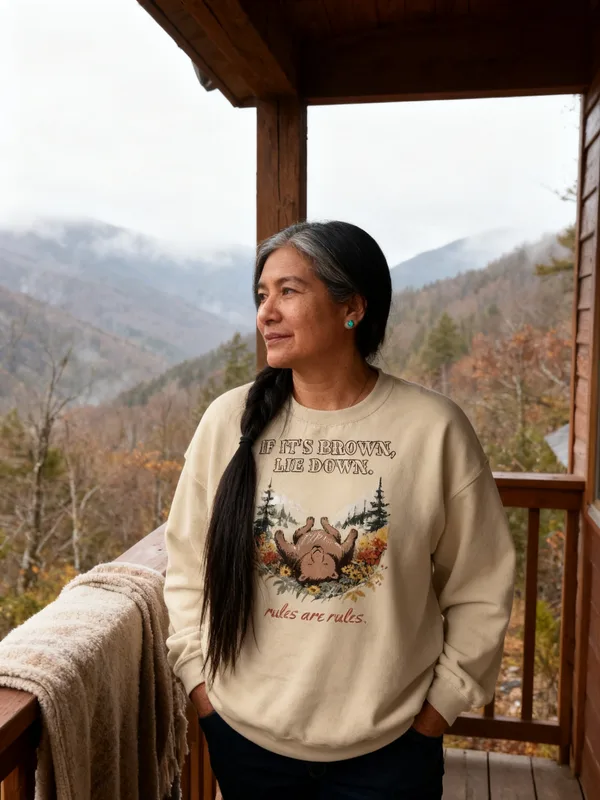
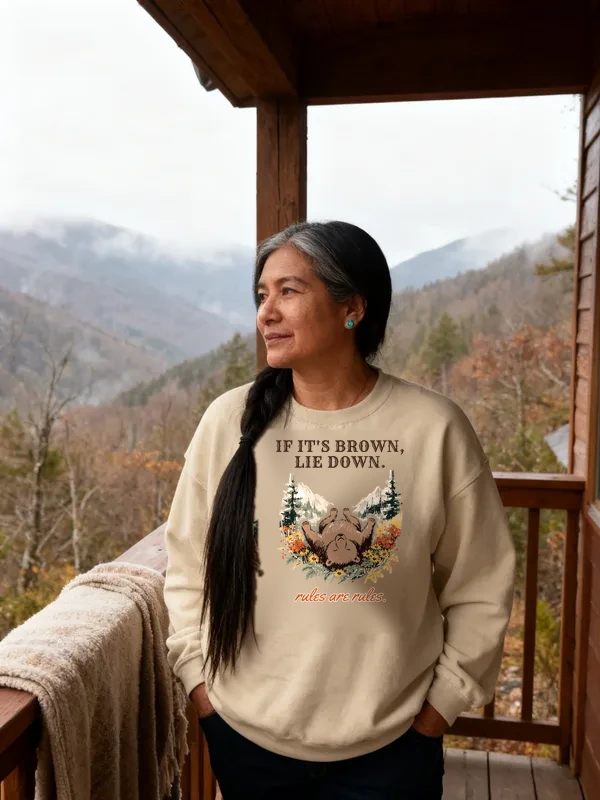
[E] wip REDO 559 sand dark-headline file, mockup, cover recomposite (re-link running)
Claude-Session: https://claude.ai/code/session_01Lr4WsmixfBZLNYCJnS7Job

Changed region(s): [[0.42, 0.5312, 0.69, 0.8125]]

diff --git a/scripts/cover-composite2.py b/scripts/cover-composite2.py
@@ -1,0 +1,42 @@
+#!/usr/bin/env python3
+"""cover-composite2.py cover.webp print.png out.webp x0 y0 w --old x0,y0,x1,y1 [--hair-seed x,y] [--force x0,y0,x1,y1] [--hair-dark 48] [--diff 22]
+Clean erase + composite (R6.9, 2026-10-18 rules): the old print inside --old is repainted from the surrounding fabric (normalised blur of garment pixels outside the old print,
+no flat fill), hair (dark pixels connected to --hair-seed) is left exactly as photographed and never painted over, then the new print goes on at x0,y0,w with the photo's luminance multiplied in.
+Place the print so it starts to the right of / below the hair, so nothing covers a letter."""
+import sys, numpy as np, cv2
+from PIL import Image
+a = sys.argv[1:]; cov, prt, out = a[:3]; x0, y0, w = (int(v) for v in a[3:6])
+def opt(n, d=None): return a[a.index(n) + 1] if n in a else d
+ox0, oy0, ox1, oy1 = (int(v) for v in opt('--old').split(','))
+c = np.array(Image.open(cov).convert('RGB')).astype(np.float32); H, W = c.shape[:2]
+lum = c.mean(2); sat = c.max(2) - c.min(2)
+hair = np.zeros((H, W), np.uint8)
+if opt('--hair-seed'):
+    sx, sy = (int(v) for v in opt('--hair-seed').split(',')); dk = (lum < float(opt('--hair-dark', 48))).astype(np.uint8)
+    n, lab = cv2.connectedComponents(dk); hair = (lab == lab[sy, sx]).astype(np.uint8) if lab[sy, sx] else hair
+    hair = cv2.dilate(hair, np.ones((3, 3), np.uint8))
+yy, xx = np.mgrid[0:H, 0:W]
+if opt('--force'):  # x0,y0,x1,y1 of leftover old-print pixels that touch the hair: treated as print, not hair
+    fx0, fy0, fx1, fy1 = (int(v) for v in opt('--force').split(',')); hair[fy0:fy1 + 1, fx0:fx1 + 1] = 0
+box = ((xx >= ox0) & (xx <= ox1) & (yy >= oy0) & (yy <= oy1))
+# fabric estimate: inpaint the old print box AND the hair out of a 1/4-scale copy (so the hair cannot smear into the fill), upsample, add grain
+sc = 4; small = cv2.resize(c.astype(np.uint8), (W // sc, H // sc), interpolation=cv2.INTER_AREA)
+big = np.zeros((H, W), np.uint8); big[(box | (hair > 0))] = 1
+big = cv2.dilate(big, np.ones((9, 9), np.uint8)); ms = cv2.resize(big, (W // sc, H // sc), interpolation=cv2.INTER_NEAREST)
+fs = cv2.inpaint(small, ms, 6, cv2.INPAINT_TELEA)
+est = cv2.GaussianBlur(cv2.resize(fs, (W, H), interpolation=cv2.INTER_CUBIC).astype(np.float32), (0, 0), 3)
+est = est + np.random.default_rng(7).normal(0, 1.1, est.shape)
+ring = (xx >= ox0 - 55) & (xx <= ox1 + 55) & (yy >= oy0 - 30) & (yy <= oy1 + 45) & ~box & (hair == 0)
+old = (box & (np.abs(c - est).max(2) > float(opt('--diff', 22))) & (hair == 0)).astype(np.uint8)
+if opt('--force'): old[fy0:fy1 + 1, fx0:fx1 + 1] = (np.abs(c - est).max(2)[fy0:fy1 + 1, fx0:fx1 + 1] > 12)
+old = cv2.dilate(old, np.ones((7, 7), np.uint8)); old[hair > 0] = 0
+Mf = cv2.GaussianBlur(old.astype(np.float32), (0, 0), 1.0)[..., None]
+clean = c * (1 - Mf) + est * Mf
+p = Image.open(prt).convert('RGBA'); h = round(w * p.height / p.width); p = p.resize((w, h), Image.LANCZOS); pa = np.array(p).astype(np.float32)
+A = np.zeros((H, W), np.float32); R = np.zeros((H, W, 3), np.float32)
+A[y0:y0 + h, x0:x0 + w] = pa[..., 3] / 255; R[y0:y0 + h, x0:x0 + w] = pa[..., :3]
+A[hair > 0] = 0  # never over the hair
+sh = cv2.GaussianBlur(clean, (0, 0), 3).mean(2, keepdims=True); sh = np.clip((sh + 25) / (np.median(sh[ring]) + 25), 0.75, 1.1)
+res = clean * (1 - A[..., None]) + np.clip(R * sh, 0, 255) * A[..., None]
+Image.fromarray(np.clip(res, 0, 255).astype(np.uint8)).save(out, quality=90)
+print('old print px erased', int(old.sum()), 'print', w, h, 'at', x0, y0)

diff --git a/docs/pipeline/559-bear-crew-if-its-brown-lie-down.md b/docs/pipeline/559-bear-crew-if-its-brown-lie-down.md
@@ -31,3 +31,4 @@ kd: 20
 - 2026-10-18 05:48 UTC builder [E]: built (sync queued behind 486/555/556). Art: 1 Recraft call ($0.04, try 1 kept: sleeping bear belly-up in a wildflower meadow, pines and ridges; its edges end in flowers, foliage and worn mountains, not a card). IF IT'S BROWN, / LIE DOWN. in Rye cream with a dark-brown keyline above, rules are rules. in Yellowtail rust #b5532e with a cream keyline below, set in compose-print; the apostrophe and comma survived. Print 2900 x 3692 px (9.7 x 12.3 in), FW 1650 TOP 75 (2100 px tall of 2400). One file reads on both Sand and Navy (checked both). Colors Sand + Navy x S-3XL = 12; Printful file 1088717212, sync product 482691301; both front mockups + back attached and linked, read both lines on each at 400 px. DRAFT gid 15364766826800 (category aa-1-13-14, $34.99 no compare-at, 5 FAQs 49-52 words incl. Dec 8, keyword bear crewneck 1300/KD20 in line one and meta, supporting bear sweater not used). Cover registry 899: attempt 1 had the braid over the N and comma of BROWN, (and the model garbled the Rye), a composite onto attempt 1 left a visible patch, so attempt 2 (braid hanging behind her, hands in pockets, no mug) kept as generated: braid clear of every letter, all three lines read. Audit-local PASS; variant-photo audit clean. fal ~$0.2.
 - 2026-10-18 07:05 UTC builder [E]: sync 12/12 confirmed. REVIEW.
 - 2026-10-18 07:22 UTC director: REDO (stays DRAFT). R5.3.8 / R5.3.5: the IF IT'S BROWN, LIE DOWN. headline is cream with a thin keyline and washes out on Sand: hard to read on the Sand mockup and blurry/unreadable on the cover. Same fix as #555: a second print file for Sand with the headline in dark ink (navy or deep brown, solid), keep the cream file for Navy, re-link Sand variants to it and verify (R7.7), regenerate the Sand mockup, re-composite the cover chest from it and read every word at phone size. Remake docs/review/559.jpg, then REVIEW.
+- 2026-10-18 09:20 UTC builder [E]: REDO fixed (Sand re-link running). Sand now has its own print file (docs/print-files/559-if-its-brown-sand.png, Printful file 1088783961): IF IT'S BROWN, LIE DOWN. in solid deep brown #3b2418 (fill changed, no keyline), rules are rules. in the same rust with cream keyline, same fonts and sizes, 2868 x 3628 px, FW 1650 TOP 75. The six Sand variants are being linked to it with ONLY=Sand FORCE=1; the Navy variants keep the cream file 1088717212. REVIEW only when Printful reports 6/6 Sand variants on 1088783961 (and Navy still 6/6 on the old id). New Sand mockup read at 400 px: the headline is the strongest line. Shopify Sand front image replaced and re-linked (6 Sand variants), Navy image and both backs unchanged, order Sand, Navy, back. Cover: new scripts/cover-composite2.py (clean erase): old print area and the braid inpainted out of a 1/4-scale copy so hair cannot smear into the fabric, the new print placed to the right of the braid at 128 px wide (the old one was 143, so no letter is under hair), the original hair put back untouched, a leftover old-tree blob beside the braid forced out; 200% zoom: no patch, halo or smear. docs/review/559.jpg remade. fal $0.
